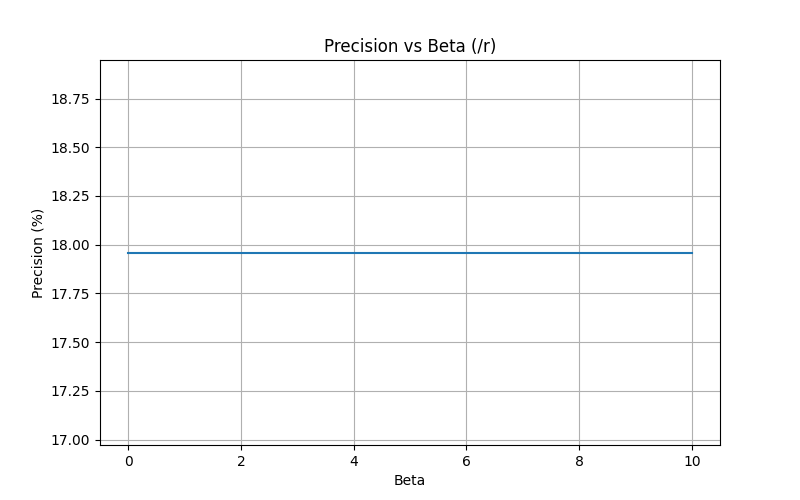
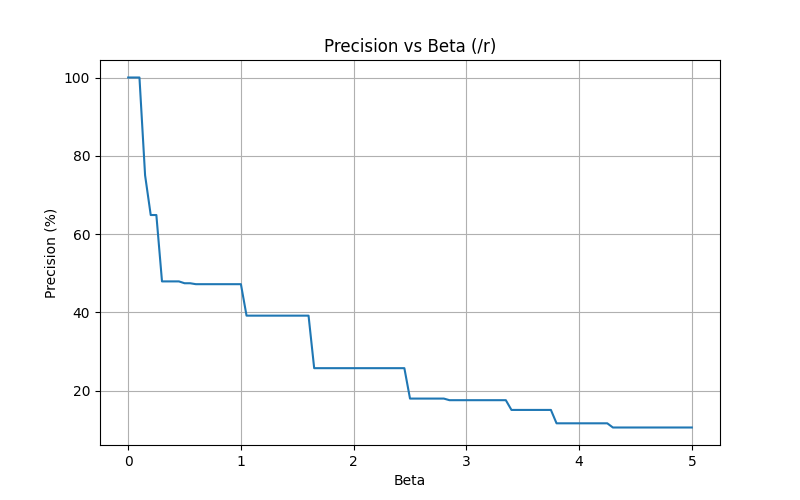
11/25/2025 Commit 2 - sweep attempt 2
Attempted another beta value sweep from 0 to 10 (step 0.05) after previous attempt failed.

diff --git a/interspeech2024-code/eval/beta_val_sweep.py b/interspeech2024-code/eval/beta_val_sweep.py
@@ -4,6 +4,7 @@ import subprocess
 import numpy as np
 import matplotlib.pyplot as plt
 from pathlib import Path
+import torch
 
 # Constants
 
@@ -27,11 +28,15 @@ OUT_DIR = INFER_RESULT_DIR / 'beta_sweep_results'
 
 # beta sweep configuration
 BETA_MIN = 0.0
-BETA_MAX = 10.0
+BETA_MAX = 5.0
 BETA_STEP = 0.05
 
 # Stutter types
 STUTTER_LABELS = ['/p', '/b', '/r', '/wr', '/i']
+
+device = torch.device('cuda' if torch.cuda.is_available() else 'cpu')
+
+DEBUG = True
 
 
 # Helper: run command in subprocess and ensure safety
@@ -59,14 +64,16 @@ def update_tuning_config(beta_vals):
     with open(TUNING_CONFIG, 'r') as f:
         tuning_config = json.load(f)
 
-    tuning_config['/p'] = beta_vals['/p']
-    tuning_config['/b'] = beta_vals['/b']
-    tuning_config['/r'] = beta_vals['/r']
-    tuning_config['/wr'] = beta_vals['/wr']
-    tuning_config['/i'] = beta_vals['/i']
+    for lbl, val in beta_vals.items():
+        tuning_config['f_beta'][lbl] = float(val)
 
     with open(TUNING_CONFIG, 'w') as f:
         json.dump(tuning_config, f, indent=4)
+
+    if DEBUG:
+        with open(TUNING_CONFIG, 'r') as f:
+            tuning_config = json.load(f)
+        print(f"Using betas for this run: {tuning_config['f_beta']}")  # check if beta vals are actually changing
 
 
 # Helper: parse precision/recall lines from infer result
@@ -111,6 +118,7 @@ def main():
     prec_curves = {label: [] for label in STUTTER_LABELS}
     rec_curves    = {label: [] for label in STUTTER_LABELS}
 
+    # Sweep over beta values
     for beta in beta_values:
         betas = {
             '/p':   float(beta),
@@ -135,12 +143,16 @@ def main():
             '--dataset', str(DATASET_LIST),
             '--gpu', '0',
             '--output', str(THRESH_OUTPUT),
-            '--graph', 'False'
+            '--graph', 'False'  # no point in graphing every time
         ]
         stdout, stderr = run_cmd(cmd_thresh)
         if stderr and ('Traceback' in stderr or 'Error' in stderr):
             print('compute_threshold.py failed:', stderr)
             continue
+
+        if DEBUG:
+            threshold = torch.load(THRESH_OUTPUT).to(device)  # load computed thresholds
+            print(f'Thresholds: {threshold}')
 
         # 3. Run inference
         cmd_infer = [
@@ -168,6 +180,9 @@ def main():
             continue
 
         prec, rec = parsed
+        if DEBUG:
+            print(f'Precision: {prec}')
+            print(f'Recall: {rec}')
 
         # Store values
         for i, label in enumerate(STUTTER_LABELS):
